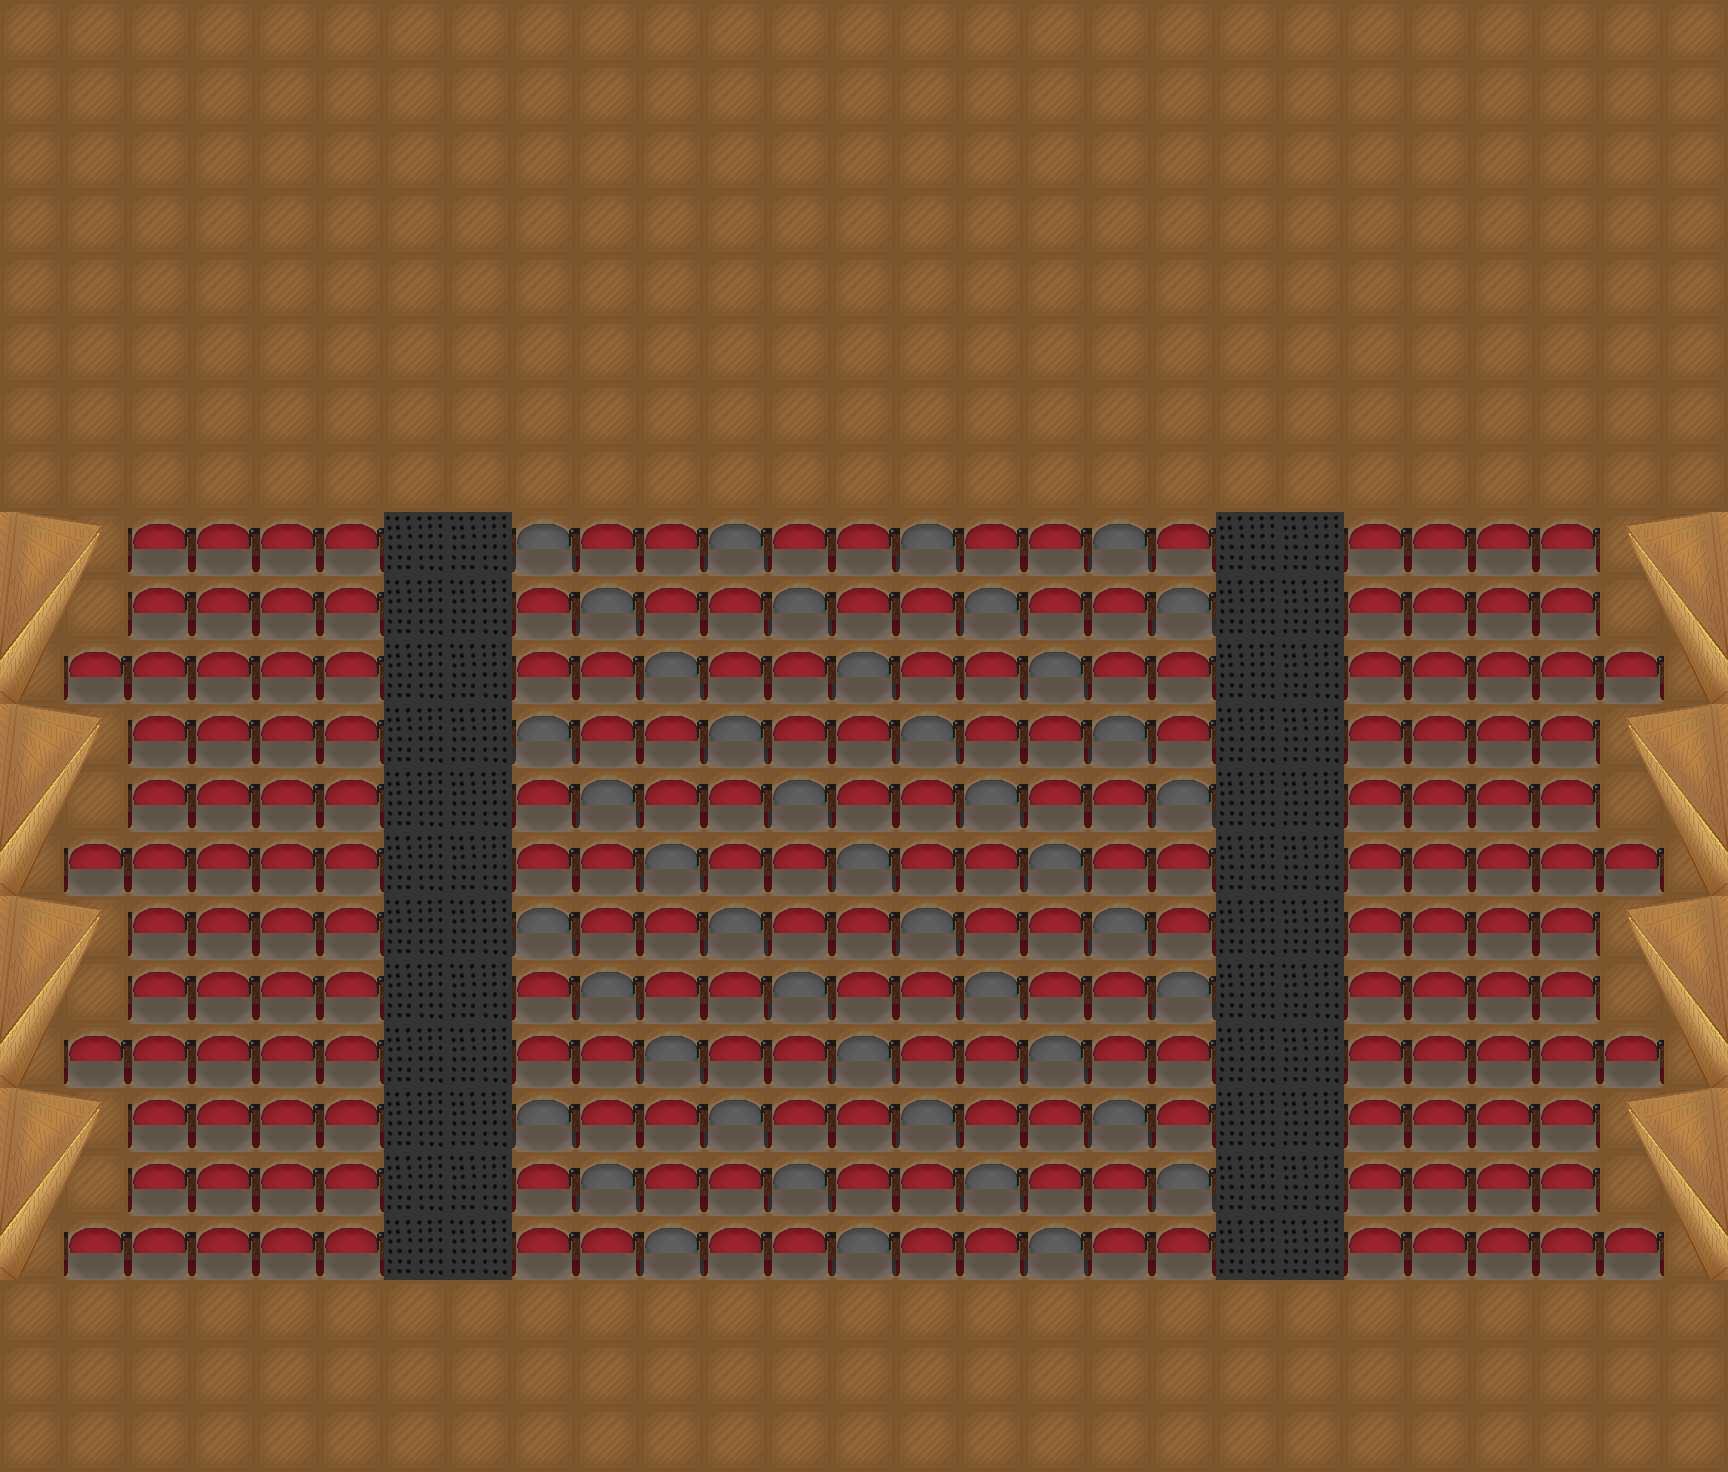
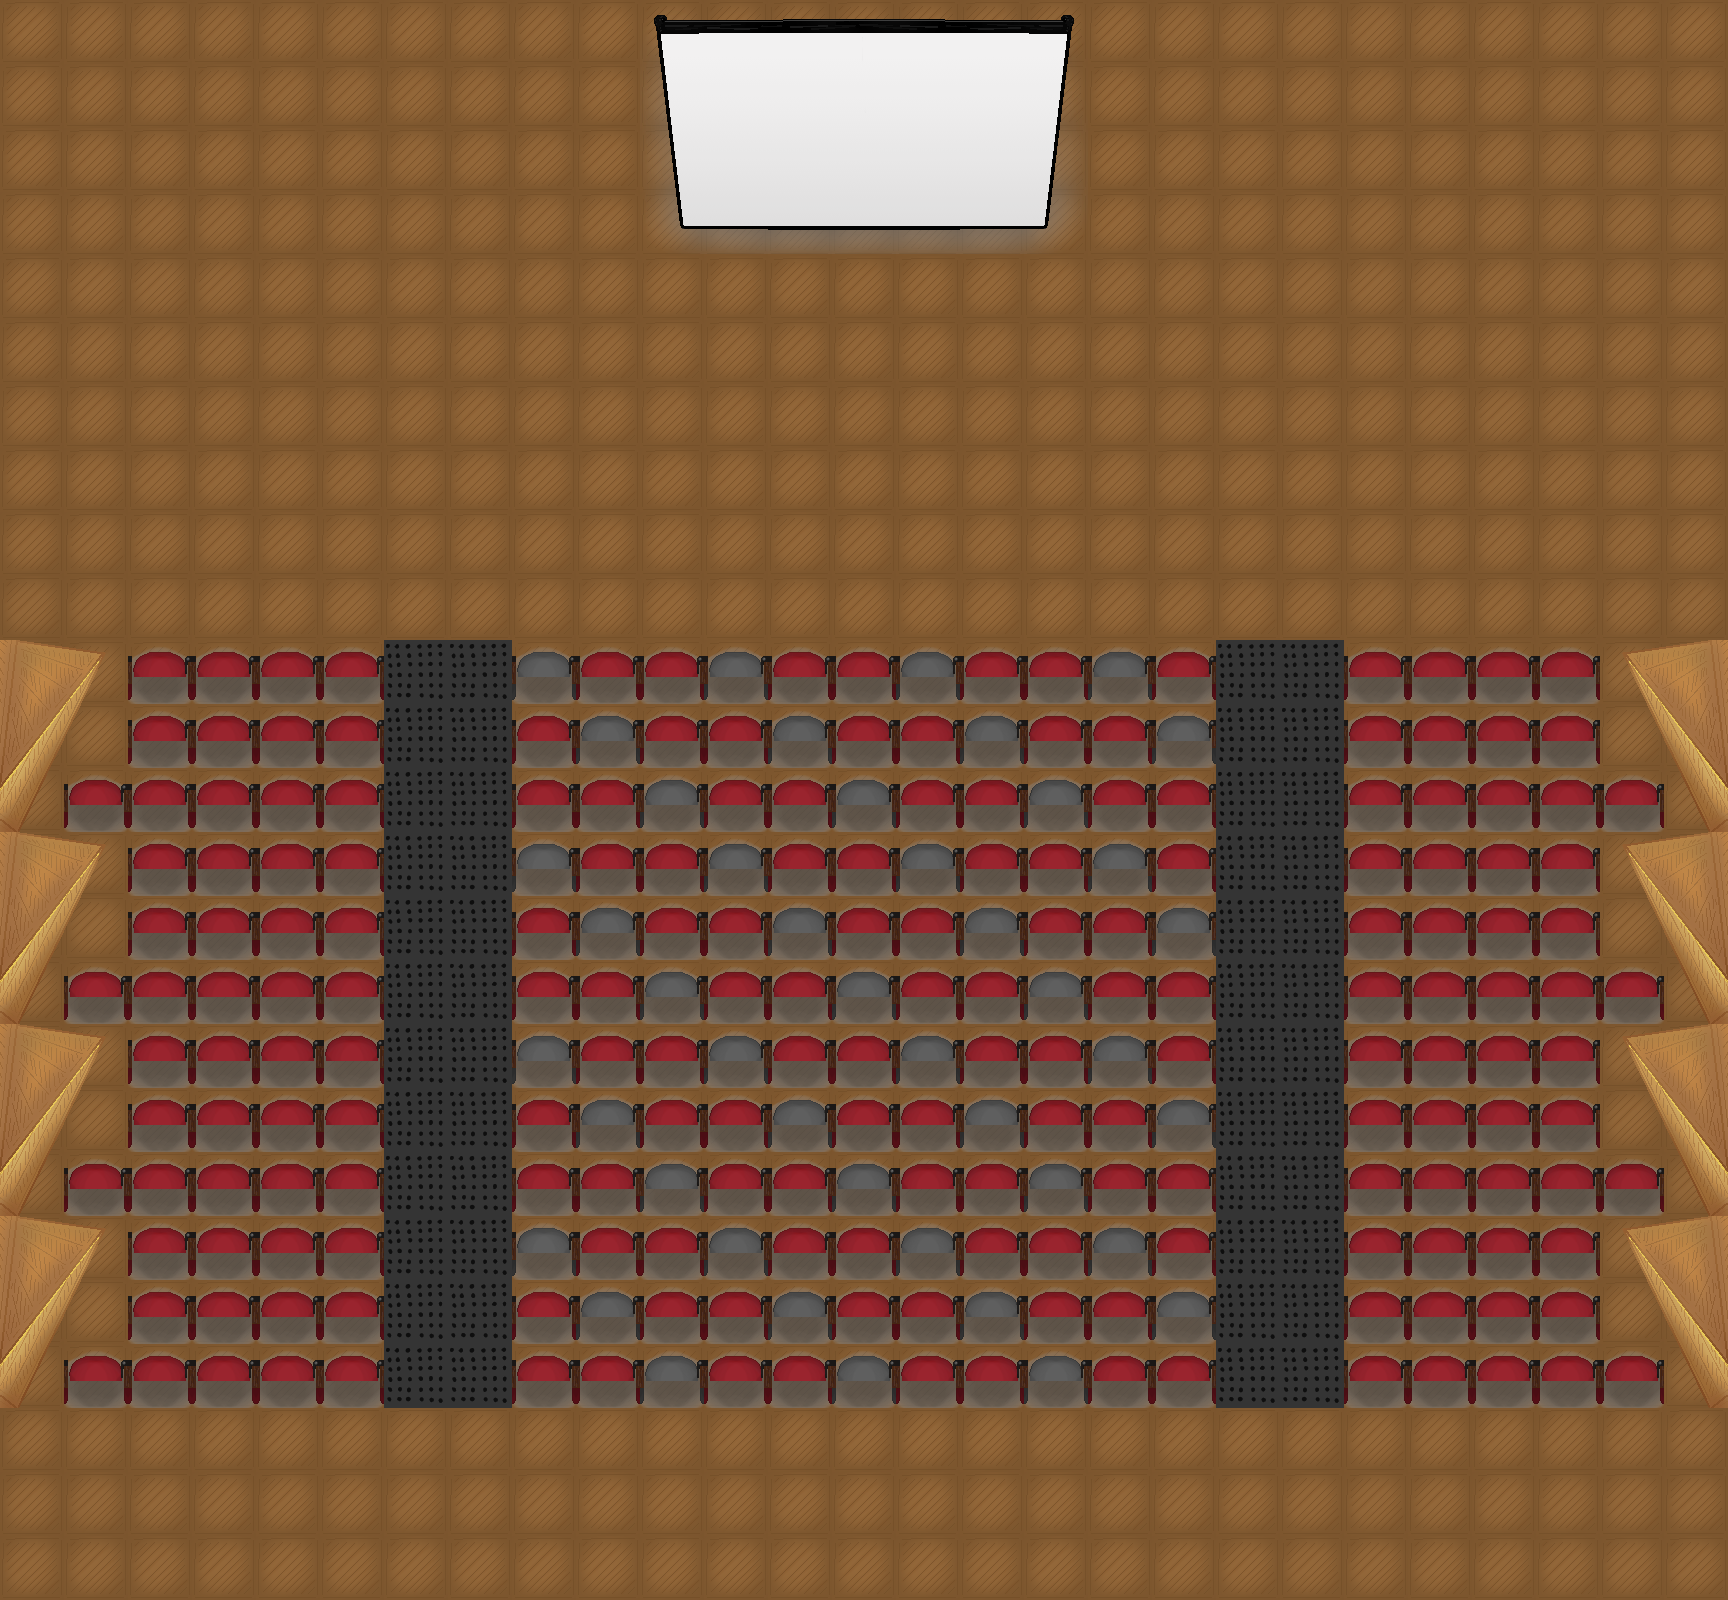
005

diff --git a/tablero.py b/tablero.py
@@ -1,6 +1,7 @@
 a1 = [1, 'blank.png',   'blank.png']                            #limites
 a2 = [1, 'lucesL.png',  'blank.png']                            #Luces L
 a3 = [1, 'lucesR.png',  'blank.png']                            #Luces R
+a4 = [1, 'telon.png',   'blank.png']
 
 b1 = [0, 'blank.png',   'blank.png']                            #madera
 b2 = [0, 'goma.png',    'blank.png']                            #goma
@@ -12,8 +13,10 @@ p0 = [3, 'blank.png', 'blank.png', 'jorge']                  #Jorge Munoz
 
 tabla = [
     [a1,a1,a1,a1,a1,a1,a1,a1,a1,a1,a1,a1,a1,a1,a1,a1,a1,a1,a1,a1,a1,a1,a1,a1,a1,a1,a1],
-    [a1,a1,a1,a1,a1,a1,b1,b1,b1,b1,b1,b1,b1,b1,b1,b1,b1,b1,b1,b1,b1,a1,a1,a1,a1,a1,a1],
-    [a1,a1,a1,a1,b1,b1,b1,b1,b1,b1,b1,b1,b1,b1,b1,b1,b1,b1,b1,b1,b1,b1,b1,a1,a1,a1,a1],
+    [a1,a1,a1,a1,a1,a1,b1,b1,b1,b1,a4,a1,a1,a1,a1,a1,a1,b1,b1,b1,b1,a1,a1,a1,a1,a1,a1],
+    [a1,a1,a1,a1,a1,a1,b1,b1,b1,b1,a1,a1,a1,a1,a1,a1,a1,b1,b1,b1,b1,a1,a1,a1,a1,a1,a1],
+    [a1,a1,a1,a1,a1,a1,b1,b1,b1,b1,a1,a1,a1,a1,a1,a1,a1,b1,b1,b1,b1,a1,a1,a1,a1,a1,a1],
+    [a1,a1,a1,a1,b1,b1,b1,b1,b1,b1,a1,a1,a1,a1,a1,a1,a1,b1,b1,b1,b1,b1,b1,a1,a1,a1,a1],
     [a1,a1,a1,b1,b1,b1,b1,b1,b1,b1,b1,b1,b1,b1,b1,b1,b1,b1,p0,b1,b1,b1,b1,b1,a1,a1,a1],
     [a1,a1,a1,b1,b1,b1,b1,b1,b1,b1,b1,b1,b1,b1,b1,b1,b1,b1,b1,b1,b1,b1,b1,b1,a1,a1,a1],
     [a1,a1,b1,b1,b1,a1,a1,a1,a1,a1,a1,a1,a1,a1,a1,a1,a1,a1,a1,a1,a1,a1,b1,b1,b1,a1,a1],

diff --git a/functions.py b/functions.py
@@ -1,7 +1,7 @@
 import pygame
 from images import *
 
-step = step * 2
+step = step * 1.5
 
 pygame.init()
 SCREEN_WIDTH, SCREEN_HEIGHT = pygame.display.Info().current_w, pygame.display.Info().current_h
